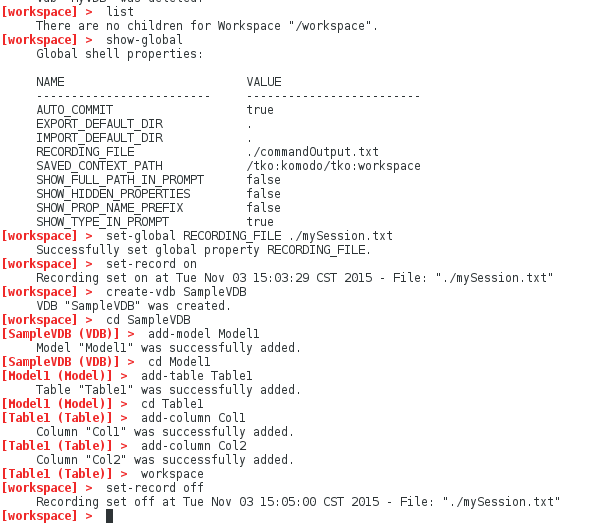
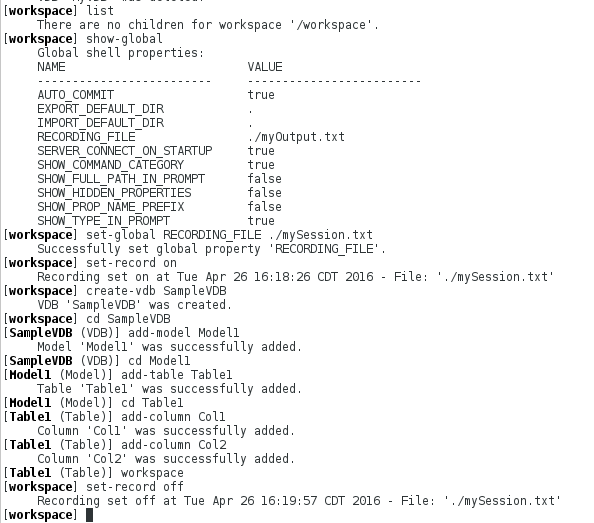
updates cli images and docs

diff --git a/documentation/cli/connect-to-server.md b/documentation/cli/connect-to-server.md
@@ -1,6 +1,6 @@
 ### Connect to a local Teiid Server
 
-This sample shows how to connect to a teiid server instance using the VDB Builder cli.  This example also demonstrates how to view the vdbs deployed to the server after you have successfully connected.
+This sample shows how to connect to a teiid server instance using the VDB Builder cli.  This example also demonstrates how to view the datasources deployed to the server after you have successfully connected.
 
 You can use __tab completion__ to see the available commands options, or use __help commandName__ to see command details.
 
@@ -12,23 +12,21 @@ You can use __tab completion__ to see the available commands options, or use __h
 
 ### Connect to a server
 
-You can connect to a teiid server within the VDBBuilder cli.  The sample session below shows how to connect to the server and view the deployed VDBs.  Note that once you are connected to a server, several more server commands will become available.  You can discover the available server commands in VDBBuilder by typing 'help' after connecting to the server.
+A default server is defined within the VDBBuilder cli.  You can specify the server connection properties, then connect to and interact with the server.  The sample session below shows how to connect to the server and view the deployed data sources.  Note that once you are connected to a server, many more server commands will become available.  You can discover the available server commands in VDBBuilder by typing 'help' after connecting to the server.
+
+NOTE: VDBBuilder will attempt to connect to a server on startup if the global property SERVER_CONNECT_ON_STARTUP is set to true. 
 
 ![Connect to Server](img/cli-connect-to-server.png)
 
 ---
 Here is a summary of the commands used for the above session:
 
-* __`list`__ - shows all children at the cli context.  The workspace initially contains no children.
-* __`create-teiid myServer`__ - create a Teiid object named __myServer__
-* __`cd myServer`__ - 'navigates' down into __myServer__ 
-* __`show-properties`__ - shows the property settings for __myServer__. No properties have been set, but the server will default to 'localhost' and admin port 9999.
-* __`workspace`__ - navigate to the workspace
-* __`set-server myServer`__ - set the server __myServer__ for this session.
-* __`show-status`__ - display the workspace status.  Note the current Teiid Instance is now __myServer__, but the status is [Not Connected]
-* __`server-connect`__ - connects to __myServer__. 
-* __`show-status`__ - display the status again.  This time, note the Teiid Instance status is [Connected]
-* __`server-vdbs`__ - display the vdbs currently deployed on the connected server.
-* __`server-disconnect`__ - disconnects from the __myServer__.
+* __`show-status`__ - display the workspace status.  Note the current server status is [Not Connected]
+* __`server-show-properties`__ - shows the default server properties.  You can use 'server-set-property' to change the properties.
+* __`server-connect`__ - connects to the default server. 
+* __`show-status`__ - display the status again.  This time, note the server status is [Connected]
+* __`help`__ - shows the available commands.  Note the server commands that are now available.
+* __`server-datasources`__ - display the datasources currently deployed on the connected server.
+* __`server-disconnect`__ - disconnects from the default server.
 
 ---

diff --git a/documentation/cli/server-vdb-interactions.md b/documentation/cli/server-vdb-interactions.md
@@ -25,12 +25,12 @@ You can deploy a VDB from VDB Builder to a running server.  The sample session b
 ---
 Here is a summary of the commands used for the above session:
 
-* __`show-status`__ - display the shell status.  Note the Teiid Instance is __myServer__, and the status is [Connected]
-* __`list`__ - show all children in __workspace__.  Note that we have a VDB __TestVDB__ in our workspace.
-* __`server-vdbs`__ - show all VDBs on the connected server, __myServer__.  Note that __TestVDB__ does not exist on the server.
-* __`server-deploy-vdb TestVDB`__ - deploy __TestVDB__ from VDB Builder to the connected server.
-* __`server-vdbs`__ - again, show all VDBs on the connect server.  Note that __TestVDB__ has been deployed!
-* __`server-vdb TestVDB`__ - show more detail for __TestVDB__ on the connect server __myServer__.
+* __`show-status`__ - display the shell status.  Note the server status is [Connected]
+* __`list`__ - show all children in __workspace__.  Note that we have one VDB __VdbDashboardDS__ in our workspace.
+* __`server-vdbs`__ - show all VDBs on the connected server.  Note that __VdbDashboardDS__ does not exist on the server.
+* __`server-deploy-vdb VdbDashboardDS`__ - deploy __VdbDashboardDS__ from VDB Builder to the connected server.
+* __`server-vdbs`__ - again, show all VDBs on the connected server.  Note that __VdbDashboardDS__ has been deployed!
+* __`server-vdb VdbDashboardDS`__ - show more detail for __VdbDashboardDS__ on the connect server.
 
 ---
 
@@ -43,12 +43,12 @@ You can also fetch a VDB from a running server and save it to the VDB Builder wo
 ---
 Here is a summary of the commands used for the above session:
 
-* __`show-status`__ - display the shell status.  Note the Teiid Instance is __myServer__, and the status is [Connected]
+* __`show-status`__ - display the shell status.  Note the current server status is [Connected]
 * __`list`__ - show all children in __workspace__.  Note that we do not have any VDBs.
-* __`server-vdbs`__ - show all VDBs on the connected server, __myServer__.  Note that __TestVDB__ exists on the server. 
-* __`server-get-vdb TestVDB`__ - gets __TestVDB__ from the connected server, and copies it to VDB Builder workspace.
-* __`list`__ - show all children in __workspace__.  Note that __TestVDB__ is now in the VDB Builder workspace!
-* __`cd TestVDB`__ - navigate into __TestVDB__.
-* __`show-summary`__ - shows a summary (properties and children) for the current context, __TestVDB__
+* __`server-vdbs`__ - show all VDBs on the connected server.  Note that __VdbDashboardDS__ exists on the server. 
+* __`server-get-vdb VdbDashboardDS`__ - gets __VdbDashboardDS__ from the connected server, and copies it to VDB Builder workspace.
+* __`list`__ - show all children in __workspace__.  Note that __VdbDashboardDS__ is now in the VDB Builder workspace!
+* __`cd VdbDashboardDS`__ - navigate into __VdbDashboardDS__.
+* __`show-summary`__ - shows a summary (properties and children) for the current context, __VdbDashboardDS__
 
 ---
